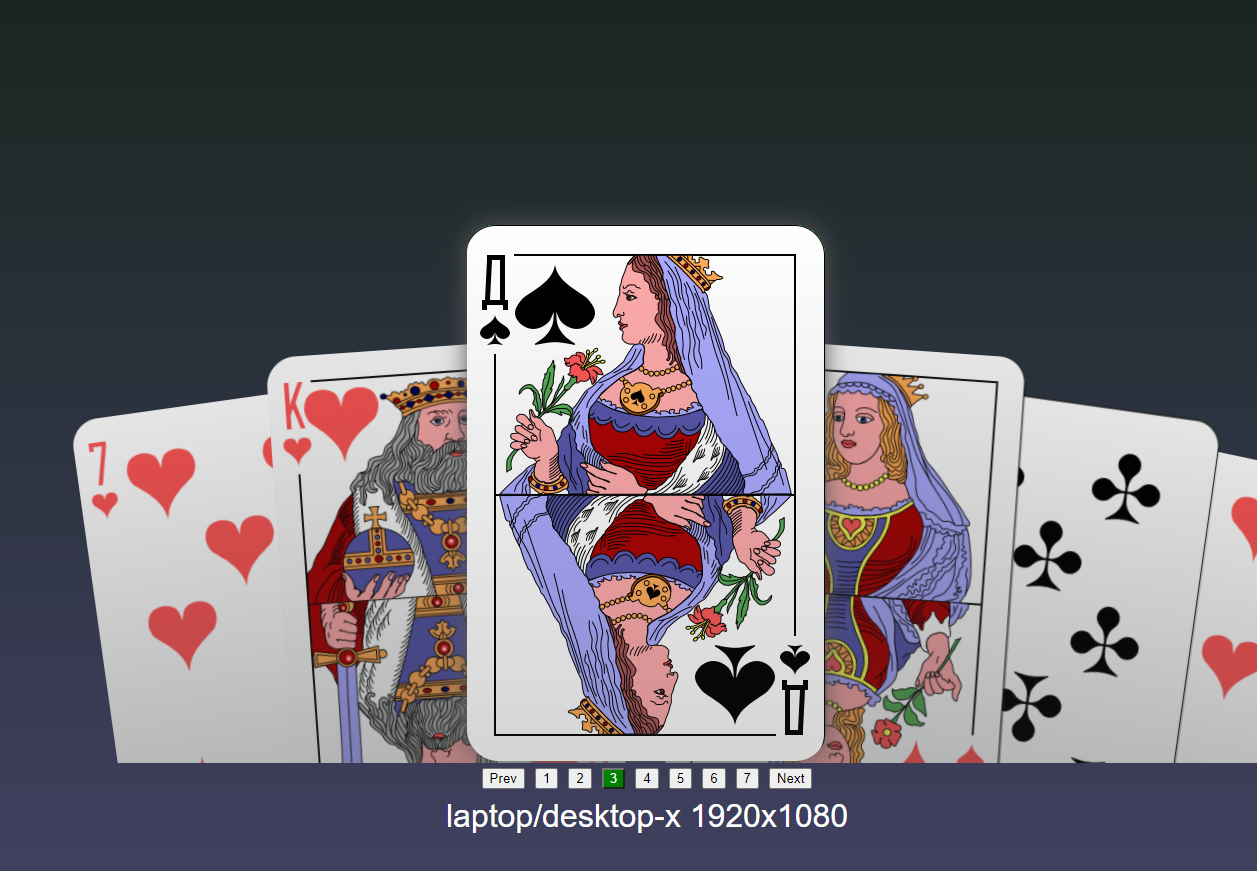
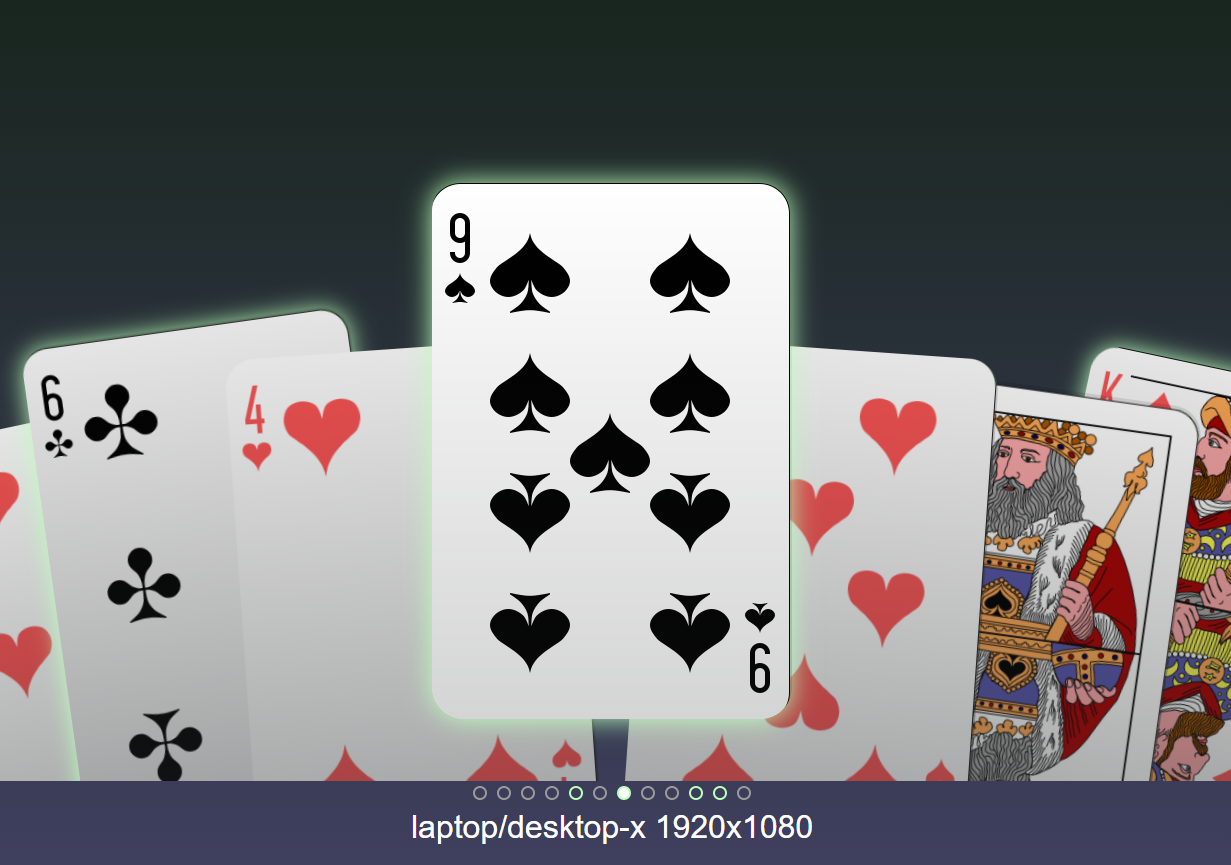
replaced indicators with dots, removed the buttons

diff --git a/script/hand-of-cards-component.js b/script/hand-of-cards-component.js
@@ -55,9 +55,9 @@ export class HandOfCardsComponent extends React.Component {
     if (!this.state.cards) {
       return React.createElement(ELEMENT_TYPES.div, properties, "no items to display in the carousel...");
     }
-
     
-    // need to know the width of the component to do a proper layout
+    // Need to know the width of the component to do a proper layout, so until we have a reference,
+    // we skip this render.
     if (this.ref.current) {
       const config = this.props.getLayoutConfiguration(this.ref);
       const statusText = `${config.name} ${config.screenSize.width}x${config.screenSize.height}`;
@@ -74,7 +74,9 @@ export class HandOfCardsComponent extends React.Component {
     }
   }
 
-  
+  /**
+   * Callback after the component was added to the dom. Use this opportunity to hook up the listeners.
+   */
   componentDidMount() {
     document.addEventListener('swiped', this.swipeHandler);
     document.addEventListener('keyup', this.keyHandler);
@@ -82,6 +84,7 @@ export class HandOfCardsComponent extends React.Component {
     window.addEventListener('touchstart', this.touchHandler);
     window.addEventListener('touchend', this.touchHandler);
 
+    // have we got the initial reference ?
     if (!this.isRefInitialized) {
       this.isRefInitialized = true;
       // now we have a dom element, we can render the component
@@ -89,6 +92,9 @@ export class HandOfCardsComponent extends React.Component {
     }
   }
 
+  /**
+   * Callback for when the componet is about to be removed from the dom. Remove the listeners.
+   */
   componentWillUnmount() {
     document.removeEventListener('swiped', this.swipeHandler);
     document.removeEventListener('keyup', this.keyHandler);
@@ -214,43 +220,37 @@ export class HandOfCardsComponent extends React.Component {
     const innerChildren = [ React.createElement(ELEMENT_TYPES.div, childProperties, children)];
 
     return React.createElement(ELEMENT_TYPES.div, carouselProperties, innerChildren);
-};
+}
 
-
-  /**
+ /**
    * 
    * @private
    * @param {*} keyPrefix 
    * @param {*} callback 
    * @param {*} activeIndex 
-   * @param {*} items 
+   * @param {*} cards 
    * @returns 
    */
-  createIndicatorItems = (keyPrefix, callback, activeIndex, items) =>
-  items.map((child, index) =>
-      createButton(
-        keyPrefix + index,
-        () => callback(index),
-        (index + 1).toString(),
-        index === activeIndex ? "active" : ""
-      )
+  createIndicatorItems = (keyPrefix, callback, activeIndex, cards) =>
+    cards.map((card, index) => 
+      React.createElement(ELEMENT_TYPES.div, { 
+        key: `indicator-${index}`,
+        className : `indicator ${card.index === activeIndex ? "indicator-active" : ""} ${card.isSelected ? "indicator-selected" : ""}`,
+        onClick : () => callback(index)
+      })
     );
 
     /**
      * @private
      * @returns 
      */
-  createIndicators(items) {
+  createIndicators(cards) {
     const properties = {
       key: "indicators",
       className: "indicators",
     };
 
-    const children = [
-        createButton("prev", () => this.previousItem(), "Prev"),
-        ...this.createIndicatorItems("indicator-item-", (idx) => this.setActiveIndex(idx),this.state.activeIndex, items),
-        createButton("next",() => this.nextItem(),"Next")
-    ];
+    const children = this.createIndicatorItems("indicator-item-", (idx) => this.setActiveIndex(idx),this.state.activeIndex, cards);
 
     return React.createElement(ELEMENT_TYPES.div, properties, children);
   }

diff --git a/hand-of-cards.css b/hand-of-cards.css
@@ -1,9 +1,12 @@
+:root {
+    --selection-color: #BBFFBB;
+}
+
 html, body { 
     height: 100%;
     margin: 0; 
     font-family: Arial, Helvetica, sans-serif;
     background-image: linear-gradient(180deg, #102010, #404060);
-    
 }
 
 .app-container {
@@ -65,7 +68,7 @@ html, body {
 }
 
 .card-item-selected {
-    filter: drop-shadow(0 0 0.8rem crimson);
+    filter: drop-shadow(0 0 0.8rem var(--selection-color));
 
     /** This supposedly helps performance on phones ... not seeing it though*/
     -webkit-transform: translateZ(0);
@@ -77,19 +80,38 @@ html, body {
     will-change: transform;
 }
 
-
 .indicators {
     display: flex;
-    justify-content: center;
+    justify-content: center;  
 }
 
 .indicators > button {
     margin: 5px;
+    border-radius: 50%;
 }
 
 .indicators > button.active {
     background-color: green;
     color: white;
+}
+
+.indicator {
+    margin: 5px;
+    border-radius: 50%;
+    min-width: 10px;
+    min-height: 10px;
+    max-width: 10px;
+    max-height: 10px;
+    background-color: rgba(255,255,255,0);
+    border: 2px solid rgba(155,155,155,1);
+}
+
+.indicator-active {
+    background-color: rgba(255,255,255,1);
+}
+
+.indicator-selected {
+    border: 2px solid var(--selection-color);
 }
 
 .platform-context {

diff --git a/script/mathx.js b/script/mathx.js
@@ -1,9 +1,13 @@
 'use strict';
 
-/**
+/*
  * Math utilties and datastructures.
  */
 
+
+/**
+ * Class capturing all elements of a transformation (translation, scale and rotation).
+ */
 export class Transform {
 
     constructor({translation = {x : 0, y : 0, z: 0}, scale = {x : 1, y : 1}, rotation = 0}) {

diff --git a/script/platform-configurations.js b/script/platform-configurations.js
@@ -1,8 +1,7 @@
-
 'use strict';
 
-/**
- * Configurations used in the demo.
+/*
+ * Configurations used in the demo to adapt to different screen sizes.
  */
 
 import { PlatformConfiguration, ORIENTATION_NAMES } from "./media-configuration.js"

diff --git a/script/sprite-atlas.js b/script/sprite-atlas.js
@@ -1,5 +1,9 @@
 'use strict';
 
+/**
+ * Class implementing a Sprite (or texture) atlas. See https://en.wikipedia.org/wiki/Texture_atlas.
+ */
+
 export class SpriteAtlas {
     constructor(url, offset, grid) {
         this.url = url;

diff --git a/script/media-configuration.js b/script/media-configuration.js
@@ -1,6 +1,6 @@
 'use strict';
 
-/**
+/*
  * Configuration definitions for a given media and its dimensions.
  */
 

diff --git a/README.md b/README.md
@@ -1,10 +1,9 @@
-# hand-of-cards (v0.1)
-This is simple and limited React front-end carousel imitating a hand of cards. To start the app run a webserver in the directory containing the index.html file. Latest demo can be found on the [github pages](https://pointlesspun.github.io/hand-of-cards/).
+# hand-of-cards (v0.2)
+This is simple and limited React front-end carousel imitating holding and browsing through a hand of cards. To start the app, run a webserver in the directory containing the index.html file. Latest demo can be found on the [github pages](https://pointlesspun.github.io/hand-of-cards/).
 
 <center>
     <img src="./data/screenshot.png" width="640" height="480"/>
 </center>
-
 
 ## Controls:
 * On a laptop/desktop: 
@@ -30,7 +29,6 @@ This project was created while learning React and is currently very much under d
 * Refactor & add documentation.
 * Add jsx (or htm) variation.
 * Add locked mode in which all cards are visible on screen.
-* Replace indicators by dots and remove next, previous buttons.
 * Add mouse support.
 * Add 'playing' cards and getting random new ones.
 * Try some optimization(s) for less powerful devices (aka phones).
